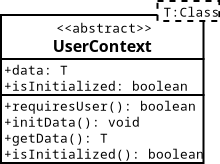
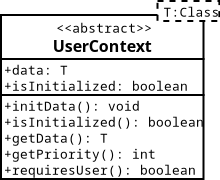
Add priority to UserContext

Changed region(s): [[0.0, 0.0, 1.0, 1.0], [0.6, 0.8232, 0.7091, 0.8841], [0.8727, 0.0, 0.9, 0.0305]]

diff --git a/sections/5-design.tex b/sections/5-design.tex
@@ -31,10 +31,12 @@ This means that every implementation of the \textit{UserContext} abstract class 
 
 Methods of the \textit{UserContext} abstract class:
 \begin{itemize}
+    
+    \item \textit{initData()} -- a method that initiates retrieving the data. 
+    \item \textit{isInitialized()} -- a Boolean flag to determine whether the data has already been initialized.
+    \item \textit{getData()} -- obtain the retrieved data.
+    \item \textit{getPriority()} -- a priority for determining the order of retrieval of contexts of the same type. The higher the priority, the more preferred context it is.
     \item \textit{requiresUser()} -- a Boolean flag to determine whether the data can be obtained without the information about the authentication user.
-    \item \textit{initData()} -- a method that initiates retrieving the data.
-    \item \textit{getData()} -- obtain the retrieved data. 
-    \item \textit{isInitialized()} -- a Boolean flag to determine whether the data has already been initialized. 
 \end{itemize}
 
 \subsection{Specific User Context}
@@ -621,7 +623,7 @@ Therefore, the application still seamlessly works with the location data despite
 
 \begin{figure}[htbp]
   \centering
-  \includegraphics[width=0.8\textwidth]{img/sections/5-design/location-diagram.png}
+  \includegraphics[width=0.75\textwidth]{img/sections/5-design/location-diagram.png}
   \caption{Remote Location Context.}
   \label{fig:design-external-integration}
 \end{figure}
